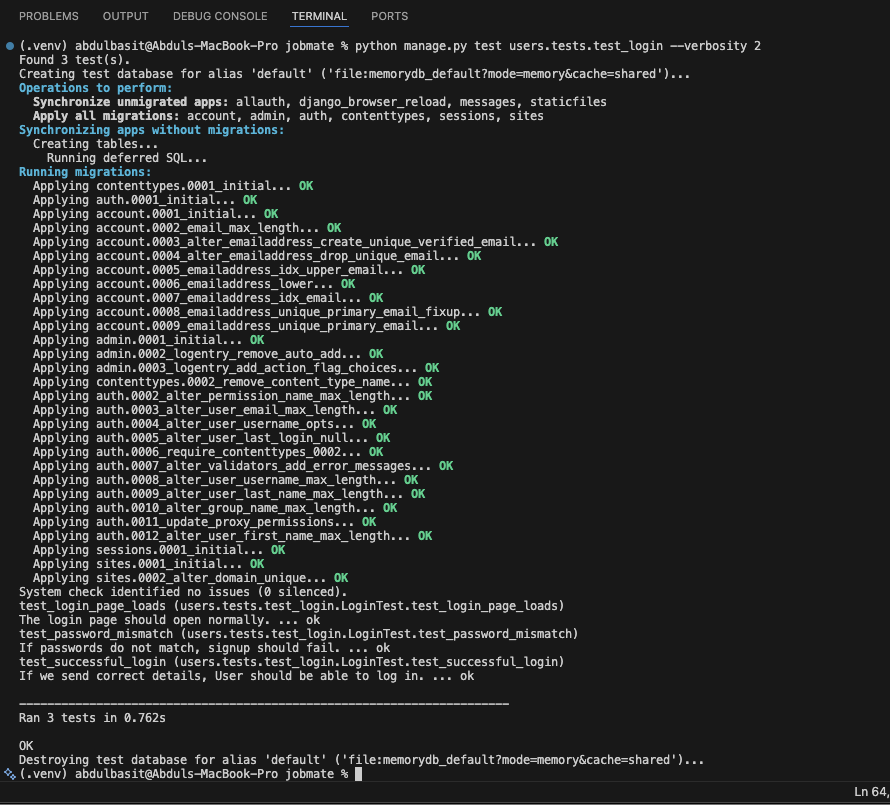
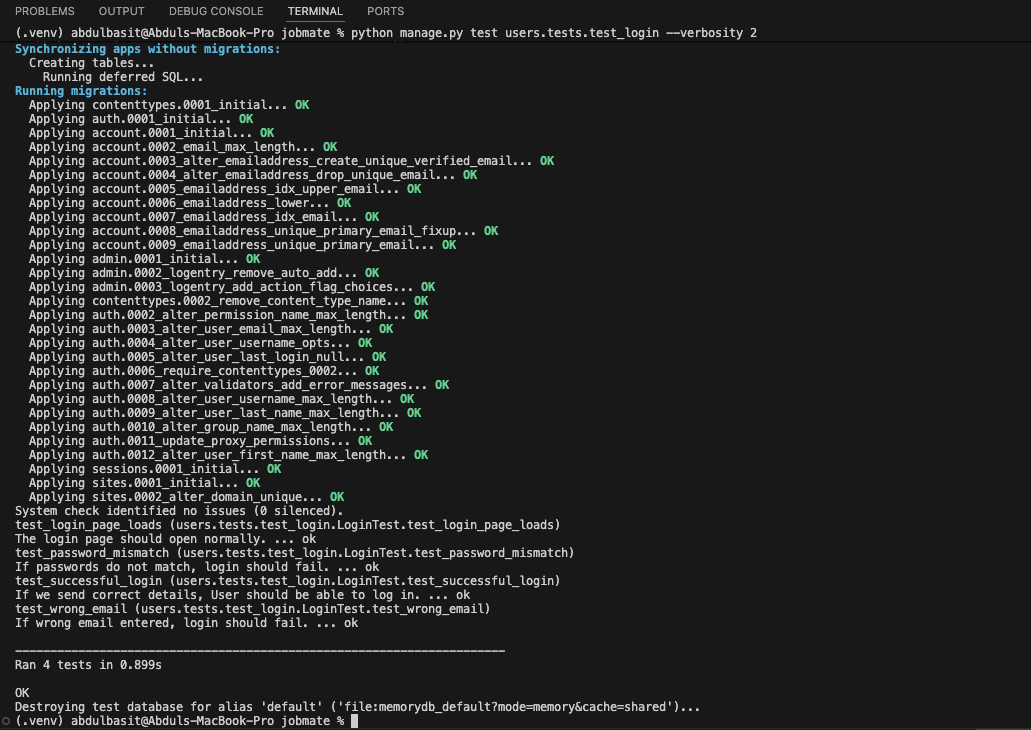
test login updated
added test to check wrong email

Changed region(s): [[0.0, 0.0, 1.0, 1.0], [0.5461, 0.3616, 0.5764, 0.3918]]

diff --git a/jobmate/users/tests/test_login.py b/jobmate/users/tests/test_login.py
@@ -4,6 +4,8 @@ from django.contrib.auth import get_user_model
 
 # Create your tests here.
 
+# This test checks users can login with correct credentials
+
 User = get_user_model()
 
 # LOGIN TESTS
@@ -46,10 +48,27 @@ class LoginTest(TestCase):
         # After login redirect after success
         self.assertEqual(response.status_code, 302)
 
+    # TEST WRONG EMAIL ENTERED
+    def test_wrong_email(self):
+        """
+        If wrong email entered, login should fail.
+        """
+        url = reverse("account_login")
+        data = {
+            "login": "test@wrong_email.com",
+            "password": "WrongPass",
+        }
+
+         # Submit login form
+        response = self.client.post(url, data)
+
+        # Should stay on same page (no redirect)
+        self.assertEqual(response.status_code, 200)
+        
   #   TEST PASSWORD MISMATCH
     def test_password_mismatch(self):
         """
-        If passwords do not match, signup should fail.
+        If passwords do not match, login should fail.
         """
         url = reverse("account_login")
         data = {
